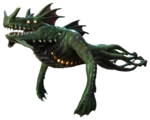
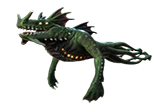
fixed images and added general css for world

Changed region(s): [[0.0, 0.0, 0.9867, 0.9818]]

diff --git a/pages/world/fauna.html b/pages/world/fauna.html
@@ -8,6 +8,7 @@
     <title>Subnepedia | Fauna</title>
     <link rel="stylesheet" href="/css/main.css">
     <link rel="stylesheet" href="/css/css-pages/world/fauna.css">
+    <link rel="stylesheet" href="/css/css-pages/world/world.css">
     <!-- Icons -->
     <script src="https://kit.fontawesome.com/1d56e9de16.js" crossorigin="anonymous"></script>
     <!-- Icon -->
@@ -98,23 +99,36 @@
         <div class="container">
             <div class="list mb-3">
                 <div class="list-1">
-                    <div class="item"><a href=""><img src="/images/World-Page/Fauna-Page/Carnivores/Ampeel.png" alt="Ampeel" class="img-fluid color-3"></a></div>
-                    <div class="item"><a href=""><img src="/images/World-Page/Fauna-Page/Carnivores/Biter.png" alt="Biter" class="img-fluid color-3"></a></div>
-                    <div class="item"><a href=""><img src="/images/World-Page/Fauna-Page/Carnivores/Blighter.png" alt="Blighter" class="img-fluid color-3"></a></div>
+                    <div class="item"><a href=""><img src="/images/World-Page/Fauna-Page/Carnivores/Ampeel.png"
+                                alt="Ampeel" class="img-fluid color-3"></a></div>
+                    <div class="item"><a href=""><img src="/images/World-Page/Fauna-Page/Carnivores/Biter.png"
+                                alt="Biter" class="img-fluid color-3"></a></div>
+                    <div class="item"><a href=""><img src="/images/World-Page/Fauna-Page/Carnivores/Blighter.png"
+                                alt="Blighter" class="img-fluid color-3"></a></div>
                 </div>
                 <div class="list-2">
-                    <div class="item"><a href=""><img src="/images/World-Page/Fauna-Page/Carnivores/Boneshark.png" alt="Boneshark" class="img-fluid color-3"></a></div>
-                    <div class="item"><a href=""><img src="/images/World-Page/Fauna-Page/Carnivores/Crabsnake.png" alt="Crabsnake" class="img-fluid color-3"></a></div>
-                    <div class="item"><a href=""><img src="/images/World-Page/Fauna-Page/Carnivores/Crabsquid.png" alt="Crabsquid" class="img-fluid color-3"></a></div>
-                    <div class="item"><a href=""><img src="/images/World-Page/Fauna-Page/Carnivores/Crashfish.png" alt="Crashfish" class="img-fluid color-3"></a></div>
-                    <div class="item"><a href=""><img src="/images/World-Page/Fauna-Page/Carnivores/Lava-Lizard.png" alt="Lava Lizard" class="img-fluid color-3"></a></div>
+                    <div class="item"><a href=""><img src="/images/World-Page/Fauna-Page/Carnivores/Boneshark.png"
+                                alt="Boneshark" class="img-fluid color-3"></a></div>
+                    <div class="item"><a href=""><img src="/images/World-Page/Fauna-Page/Carnivores/Crabsnake.png"
+                                alt="Crabsnake" class="img-fluid color-3"></a></div>
+                    <div class="item"><a href=""><img src="/images/World-Page/Fauna-Page/Carnivores/Crabsquid.png"
+                                alt="Crabsquid" class="img-fluid color-3"></a></div>
+                    <div class="item"><a href=""><img src="/images/World-Page/Fauna-Page/Carnivores/Crashfish.png"
+                                alt="Crashfish" class="img-fluid color-3"></a></div>
+                    <div class="item"><a href=""><img src="/images/World-Page/Fauna-Page/Carnivores/Lava-Lizard.png"
+                                alt="Lava Lizard" class="img-fluid color-3"></a></div>
                 </div>
                 <div class="list-3">
-                    <div class="item"><a href=""><img src="/images/World-Page/Fauna-Page/Carnivores/Mesmer.png" alt="Mesmer" class="img-fluid color-3"></a></div>
-                    <div class="item"><a href=""><img src="/images/World-Page/Fauna-Page/Carnivores/River-Prowler.png" alt="River Prowler" class="img-fluid color-3"></a></div>
-                    <div class="item"><a href=""><img src="/images/World-Page/Fauna-Page/Carnivores/Sand-Shark.png" alt="Sand Shark" class="img-fluid color-3"></a></div>
-                    <div class="item"><a href=""><img src="/images/World-Page/Fauna-Page/Carnivores/Stalker.png" alt="Stalker" class="img-fluid color-3"></a></div>
-                    <div class="item"><a href=""><img src="/images/World-Page/Fauna-Page/Carnivores/Warper.png" alt="Warper" class="img-fluid color-3"></a></div>
+                    <div class="item"><a href=""><img src="/images/World-Page/Fauna-Page/Carnivores/Mesmer.png"
+                                alt="Mesmer" class="img-fluid color-3"></a></div>
+                    <div class="item"><a href=""><img src="/images/World-Page/Fauna-Page/Carnivores/River-Prowler.png"
+                                alt="River Prowler" class="img-fluid color-3"></a></div>
+                    <div class="item"><a href=""><img src="/images/World-Page/Fauna-Page/Carnivores/Sand-Shark.png"
+                                alt="Sand Shark" class="img-fluid color-3"></a></div>
+                    <div class="item"><a href=""><img src="/images/World-Page/Fauna-Page/Carnivores/Stalker.png"
+                                alt="Stalker" class="img-fluid color-3"></a></div>
+                    <div class="item"><a href=""><img src="/images/World-Page/Fauna-Page/Carnivores/Warper.png"
+                                alt="Warper" class="img-fluid color-3"></a></div>
                 </div>
             </div>
         </div>
@@ -125,67 +139,137 @@
         <div class="container">
             <div class="list my-3">
                 <div class="list-1">
-                    <div class="item"><a href="#"><img class="img-fluid color-3" src="/images/World-Page/Fauna-Page/Herbivores/Bladderfish.png" alt="Bladderfish"></a></div>
-                    <div class="item"><a href="#"><img class="img-fluid color-3" src="/images/World-Page/Fauna-Page/Herbivores/Boomerang.png" alt="Boomerang"></a></div>
-                    <div class="item"><a href="#"><img class="img-fluid color-3" src="/images/World-Page/Fauna-Page/Herbivores/Crimson_Ray.png" alt="Crimson Ray"></a></div>
-                    <div class="item"><a href="#"><img class="img-fluid color-3" src="/images/World-Page/Fauna-Page/Herbivores/Cuddlefish.png" alt="Cuddlefish"></a></div>
-                    <div class="item"><a href="#"><img class="img-fluid color-3" src="/images/World-Page/Fauna-Page/Herbivores/Eyeye.png" alt="Eyeye"></a></div>
-                    <div class="item"><a href="#"><img class="img-fluid color-3" src="/images/World-Page/Fauna-Page/Herbivores/Garryfish.png" alt="Garryfish"></a></div>
-                    <div class="item"><a href="#"><img class="img-fluid color-3" src="/images/World-Page/Fauna-Page/Herbivores/Gasopod.png" alt="Gasopod"></a></div>
+                    <div class="item"><a href="#"><img class="img-fluid color-3"
+                                src="/images/World-Page/Fauna-Page/Herbivores/Bladderfish.png" alt="Bladderfish"></a>
+                    </div>
+                    <div class="item"><a href="#"><img class="img-fluid color-3"
+                                src="/images/World-Page/Fauna-Page/Herbivores/Boomerang.png" alt="Boomerang"></a></div>
+                    <div class="item"><a href="#"><img class="img-fluid color-3"
+                                src="/images/World-Page/Fauna-Page/Herbivores/Crimson_Ray.png" alt="Crimson Ray"></a>
+                    </div>
+                    <div class="item"><a href="#"><img class="img-fluid color-3"
+                                src="/images/World-Page/Fauna-Page/Herbivores/Cuddlefish.png" alt="Cuddlefish"></a>
+                    </div>
+                    <div class="item"><a href="#"><img class="img-fluid color-3"
+                                src="/images/World-Page/Fauna-Page/Herbivores/Eyeye.png" alt="Eyeye"></a></div>
+                    <div class="item"><a href="#"><img class="img-fluid color-3"
+                                src="/images/World-Page/Fauna-Page/Herbivores/Garryfish.png" alt="Garryfish"></a></div>
+                    <div class="item"><a href="#"><img class="img-fluid color-3"
+                                src="/images/World-Page/Fauna-Page/Herbivores/Gasopod.png" alt="Gasopod"></a></div>
                 </div>
-                 <div class="list-2">
-                    <div class="item"><a href="#"><img class="img-fluid color-3" src="/images/World-Page/Fauna-Page/Herbivores/Ghostray.png" alt="Ghostray"></a></div>
-                    <div class="item"><a href="#"><img class="img-fluid color-3" src="/images/World-Page/Fauna-Page/Herbivores/Holefish.png" alt="Holefish"></a></div>
-                    <div class="item"><a href="#"><img class="img-fluid color-3" src="/images/World-Page/Fauna-Page/Herbivores/Hoopfish.png" alt="Hoopfish"></a></div>
-                    <div class="item"><a href="#"><img class="img-fluid color-3" src="/images/World-Page/Fauna-Page/Herbivores/Hoverfish.png" alt="Hoverfish"></a></div>
-                    <div class="item"><a href="#"><img class="img-fluid color-3" src="/images/World-Page/Fauna-Page/Herbivores/Jellyray.png" alt="Jellyray"></a></div>
-                    <div class="item"><a href="#"><img class="img-fluid color-3" src="/images/World-Page/Fauna-Page/Herbivores/Magmarang.png" alt="Magmarang"></a></div>
-                    <div class="item"><a href="#"><img class="img-fluid color-3" src="/images/World-Page/Fauna-Page/Herbivores/Oculus.png" alt="Oculus"></a></div>
+                <div class="list-2">
+                    <div class="item"><a href="#"><img class="img-fluid color-3"
+                                src="/images/World-Page/Fauna-Page/Herbivores/Ghostray.png" alt="Ghostray"></a></div>
+                    <div class="item"><a href="#"><img class="img-fluid color-3"
+                                src="/images/World-Page/Fauna-Page/Herbivores/Holefish.png" alt="Holefish"></a></div>
+                    <div class="item"><a href="#"><img class="img-fluid color-3"
+                                src="/images/World-Page/Fauna-Page/Herbivores/Hoopfish.png" alt="Hoopfish"></a></div>
+                    <div class="item"><a href="#"><img class="img-fluid color-3"
+                                src="/images/World-Page/Fauna-Page/Herbivores/Hoverfish.png" alt="Hoverfish"></a></div>
+                    <div class="item"><a href="#"><img class="img-fluid color-3"
+                                src="/images/World-Page/Fauna-Page/Herbivores/Jellyray.png" alt="Jellyray"></a></div>
+                    <div class="item"><a href="#"><img class="img-fluid color-3"
+                                src="/images/World-Page/Fauna-Page/Herbivores/Magmarang.png" alt="Magmarang"></a></div>
+                    <div class="item"><a href="#"><img class="img-fluid color-3"
+                                src="/images/World-Page/Fauna-Page/Herbivores/Oculus.png" alt="Oculus"></a></div>
                 </div>
-                 <div class="list-3">
-                    <div class="item"><a href="#"><img class="img-fluid color-3" src="/images/World-Page/Fauna-Page/Herbivores/Peeper.png" alt="Peeper"></a></div>
-                    <div class="item"><a href="#"><img class="img-fluid color-3" src="/images/World-Page/Fauna-Page/Herbivores/Rabbit-Ray.png" alt="Rabbit-Ray"></a></div>
-                    <div class="item"><a href="#"><img class="img-fluid color-3" src="/images/World-Page/Fauna-Page/Herbivores/Red-Eyeye.png" alt="Red-Eyeye"></a></div>
-                    <div class="item"><a href="#"><img class="img-fluid color-3" src="/images/World-Page/Fauna-Page/Herbivores/Reginald.png" alt="Reginald"></a></div>
-                    <div class="item"><a href="#"><img class="img-fluid color-3" src="/images/World-Page/Fauna-Page/Herbivores/Skyray.png" alt="Skyray"></a></div>
-                    <div class="item"><a href="#"><img class="img-fluid color-3" src="/images/World-Page/Fauna-Page/Herbivores/Spadefish.png" alt="Spadefish"></a></div>
-                    <div class="item"><a href="#"><img class="img-fluid color-3" src="/images/World-Page/Fauna-Page/Herbivores/Spinefish.png" alt="Spinefish"></a></div>
+                <div class="list-3">
+                    <div class="item"><a href="#"><img class="img-fluid color-3"
+                                src="/images/World-Page/Fauna-Page/Herbivores/Peeper.png" alt="Peeper"></a></div>
+                    <div class="item"><a href="#"><img class="img-fluid color-3"
+                                src="/images/World-Page/Fauna-Page/Herbivores/Rabbit-Ray.png" alt="Rabbit-Ray"></a>
+                    </div>
+                    <div class="item"><a href="#"><img class="img-fluid color-3"
+                                src="/images/World-Page/Fauna-Page/Herbivores/Red-Eyeye.png" alt="Red-Eyeye"></a></div>
+                    <div class="item"><a href="#"><img class="img-fluid color-3"
+                                src="/images/World-Page/Fauna-Page/Herbivores/Reginald.png" alt="Reginald"></a></div>
+                    <div class="item"><a href="#"><img class="img-fluid color-3"
+                                src="/images/World-Page/Fauna-Page/Herbivores/Skyray.png" alt="Skyray"></a></div>
+                    <div class="item"><a href="#"><img class="img-fluid color-3"
+                                src="/images/World-Page/Fauna-Page/Herbivores/Spadefish.png" alt="Spadefish"></a></div>
+                    <div class="item"><a href="#"><img class="img-fluid color-3"
+                                src="/images/World-Page/Fauna-Page/Herbivores/Spinefish.png" alt="Spinefish"></a></div>
                 </div>
             </div>
         </div>
-         <div class="hr-divider">
+        <div class="hr-divider">
             <hr class="divider">
         </div>
         <h1 class="custom-font page-title my-5">Scavengers &amp; Parasites</h1>
         <div class="container">
             <div class="list my-3">
                 <div class="list-1">
-                    <div class="item"><a href="#"><img class="img-fluid color-3" src="/images/World-Page/Fauna-Page/Scavengers & Parasites/Amoeboid.png" alt="Amoeboid"></a></div>
-                    <div class="item"><a href="#"><img class="img-fluid color-3" src="/images/World-Page/Fauna-Page/Scavengers & Parasites/Ancient-Floater.png" alt="Ancient Floater"></a></div>
-                    <div class="item"><a href="#"><img class="img-fluid color-3" src="/images/World-Page/Fauna-Page/Scavengers & Parasites/Bleeder.png" alt="Bleeder"></a></div>
+                    <div class="item"><a href="#"><img class="img-fluid color-3"
+                                src="/images/World-Page/Fauna-Page/Scavengers & Parasites/Amoeboid.png"
+                                alt="Amoeboid"></a></div>
+                    <div class="item"><a href="#"><img class="img-fluid color-3"
+                                src="/images/World-Page/Fauna-Page/Scavengers & Parasites/Ancient-Floater.png"
+                                alt="Ancient Floater"></a></div>
+                    <div class="item"><a href="#"><img class="img-fluid color-3"
+                                src="/images/World-Page/Fauna-Page/Scavengers & Parasites/Bleeder.png"
+                                alt="Bleeder"></a></div>
                 </div>
-                 <div class="list-2">
-                    <div class="item"><a href="#"><img class="img-fluid color-3" src="/images/World-Page/Fauna-Page/Scavengers & Parasites/Blood-Crawler.png" alt="Blood Crawler"></a></div>
-                    <div class="item"><a href="#"><img class="img-fluid color-3" src="/images/World-Page/Fauna-Page/Scavengers & Parasites/Cave-Crawler.png" alt="Cave Crawler"></a></div>
-                    <div class="item"><a href="#"><img class="img-fluid color-3" src="/images/World-Page/Fauna-Page/Scavengers & Parasites/Floater.png" alt="Floater"></a></div>
+                <div class="list-2">
+                    <div class="item"><a href="#"><img class="img-fluid color-3"
+                                src="/images/World-Page/Fauna-Page/Scavengers & Parasites/Blood-Crawler.png"
+                                alt="Blood Crawler"></a></div>
+                    <div class="item"><a href="#"><img class="img-fluid color-3"
+                                src="/images/World-Page/Fauna-Page/Scavengers & Parasites/Cave-Crawler.png"
+                                alt="Cave Crawler"></a></div>
+                    <div class="item"><a href="#"><img class="img-fluid color-3"
+                                src="/images/World-Page/Fauna-Page/Scavengers & Parasites/Floater.png"
+                                alt="Floater"></a></div>
                 </div>
-                 <div class="list-3">
-                    <div class="item"><a href="#"><img class="img-fluid color-3" src="/images/World-Page/Fauna-Page/Scavengers & Parasites/Lava-Larva.png" alt="Lava Larva"></a></div>
-                    <div class="item"><a href="#"><img class="img-fluid color-3" src="/images/World-Page/Fauna-Page/Scavengers & Parasites/Rockgrub.png" alt="Rockgrub"></a></div>
-                    <div class="item"><a href="#"><img class="img-fluid color-3" src="/images/World-Page/Fauna-Page/Scavengers & Parasites/Shuttlebug.png" alt="Shuttlebug"></a></div>
+                <div class="list-3">
+                    <div class="item"><a href="#"><img class="img-fluid color-3"
+                                src="/images/World-Page/Fauna-Page/Scavengers & Parasites/Lava-Larva.png"
+                                alt="Lava Larva"></a></div>
+                    <div class="item"><a href="#"><img class="img-fluid color-3"
+                                src="/images/World-Page/Fauna-Page/Scavengers & Parasites/Rockgrub.png"
+                                alt="Rockgrub"></a></div>
+                    <div class="item"><a href="#"><img class="img-fluid color-3"
+                                src="/images/World-Page/Fauna-Page/Scavengers & Parasites/Shuttlebug.png"
+                                alt="Shuttlebug"></a></div>
                 </div>
             </div>
         </div>
-         <div class="hr-divider">
+        <div class="hr-divider">
             <hr class="divider">
         </div>
-         <h1 class="custom-font page-title my-5">Harvestable</h1>
+        <h1 class="custom-font page-title my-5">Harvestable</h1>
         <div class="container">
             <div class="list my-3">
                 <div class="list-1">
-                    <div class="item"><a href="#"><img class="img-fluid color-3" src="/images/World-Page/Fauna-Page/Leviathan Class/Ghost-Juvenile.png" alt="Ghost-Juvenile Leviathn"></a></div>
-                    <div class="item"><a href="#"><img class="img-fluid color-3" src="/images/World-Page/Fauna-Page/Leviathan Class/Ghost.png" alt="Ghost Levithan"></a></div>
-                    <div class="item"><a href="#"><img class="img-fluid color-3" src="/images/World-Page/Fauna-Page/Leviathan Class/Ghost-Juvenile.png" alt="Ghost-Juvenile"></a></div>
+                    <div class="item"><a href="#"><img class="img-fluid color-3"
+                                src="/images/World-Page/Fauna-Page/Harvestable/Brain-Coral.png" alt="Brain Coral"></a>
+                    </div>
+                    <div class="item"><a href="#"><img class="img-fluid color-3"
+                                src="/images/World-Page/Fauna-Page/Harvestable/Coral-Shell-Plate.png"
+                                alt="Coral Shell Plate"></a></div>
+                    <div class="item"><a href="#"><img class="img-fluid color-3"
+                                src="/images/World-Page/Fauna-Page/Harvestable/Earthen-Coral-Tubes.png"
+                                alt="Earthen Coral Tubes"></a></div>
+                </div>
+                <div class="list-2">
+                    <div class="item"><a href="#"><img class="img-fluid color-3"
+                                src="/images/World-Page/Fauna-Page/Harvestable/Giant-Coral-Tubes.png"
+                                alt="Giant Coral Tubes"></a></div>
+                    <div class="item"><a href="#"><img class="img-fluid color-3"
+                                src="/images/World-Page/Fauna-Page/Harvestable/Pyrocoral.png" alt="Pyrocoal"></a></div>
+                    <div class="item"><a href="#"><img class="img-fluid color-3"
+                                src="/images/World-Page/Fauna-Page/Harvestable/Slanted-Shell-Plate.png"
+                                alt="Slanted Shell Plate"></a></div>
+                </div>
+                <div class="list-3">
+                    <div class="item"><a href="#"><img class="img-fluid color-3"
+                                src="/images/World-Page/Fauna-Page/Harvestable/Table-Coral.png" alt="Table Coral"></a>
+                    </div>
+                    <div class="item"><a href="#"><img class="img-fluid color-3"
+                                src="/images/World-Page/Fauna-Page/Harvestable/Tree-Mushroom.png"
+                                alt="Tree Mushroom"></a></div>
+                    <div class="item"><a href="#"><img class="img-fluid color-3"
+                                src="/images/World-Page/Fauna-Page/Harvestable/Veined-Shell-Plate.png"
+                                alt="Veined Shell Plate"></a></div>
                 </div>
             </div>
         </div>
@@ -193,9 +277,37 @@
         <div class="container">
             <div class="list my-3">
                 <div class="list-1">
-                    <div class="item"><a href="#"><img class="img-fluid color-3" src="/images/World-Page/Fauna-Page/Leviathan Class/Ghost-Juvenile.png" alt="Ghost-Juvenile Leviathn"></a></div>
-                    <div class="item"><a href="#"><img class="img-fluid color-3" src="/images/World-Page/Fauna-Page/Leviathan Class/Ghost.png" alt="Ghost Levithan"></a></div>
-                    <div class="item"><a href="#"><img class="img-fluid color-3" src="/images/World-Page/Fauna-Page/Leviathan Class/Ghost-Juvenile.png" alt="Ghost-Juvenile"></a></div>
+                    <div class="item"><a href="#"><img class="img-fluid color-3"
+                                src="/images/World-Page/Fauna-Page/Leviathan Class/Adult-Ghost.png"
+                                alt="Ghost Leviathan"></a></div>
+                    <div class="item"><a href="#"><img class="img-fluid color-3"
+                                src="/images/World-Page/Fauna-Page/Leviathan Class/Juvenile-Ghost.png"
+                                alt="Juvenile Ghost Levithan"></a></div>
+                    <div class="item"><a href="#"><img class="img-fluid color-3"
+                                src="/images/World-Page/Fauna-Page/Leviathan Class/Reaper.png"
+                                alt="Reaper Leviathan"></a></div>
+                </div>
+                <div class="list-2">
+                    <div class="item"><a href="#"><img class="img-fluid color-3"
+                                src="/images/World-Page/Fauna-Page/Leviathan Class/Reefback.png"
+                                alt="Reefback Leviathan"></a></div>
+                    <div class="item"><a href="#"><img class="img-fluid color-3"
+                                src="/images/World-Page/Fauna-Page/Leviathan Class/Sea-Dragon.png" alt="Sea Dragon"></a>
+                    </div>
+                    <div class="item"><a href="#"><img class="img-fluid color-3"
+                                src="/images/World-Page/Fauna-Page/Leviathan Class/Sea-Emperor.png"
+                                alt="Sea Emperor"></a></div>
+                </div>
+                <div class="list-2">
+                    <div class="item"><a href="#"><img class="img-fluid color-3"
+                                src="/images/World-Page/Fauna-Page/Leviathan Class/Sea-Emperor-Baby.png"
+                                alt="Baby Sea Emperor"></a></div>
+                    <div class="item"><a href="#"><img class="img-fluid color-3"
+                                src="/images/World-Page/Fauna-Page/Leviathan Class/Sea-Emperor-Juvenile.png"
+                                alt="Juvenile Sea Emperor"></a></div>
+                    <div class="item"><a href="#"><img class="img-fluid color-3"
+                                src="/images/World-Page/Fauna-Page/Leviathan Class/Sea-Trader.png"
+                                alt="Sea Trader"></a></div>
                 </div>
             </div>
         </div>

diff --git a/pages/world/flora.html b/pages/world/flora.html
@@ -8,6 +8,7 @@
     <title>Flora | Subnepedia</title>
     <link rel="stylesheet" href="/css/main.css">
     <link rel="stylesheet" href="/css/css-pages/world/flora.css">
+     <link rel="stylesheet" href="/css/css-pages/world/world.css">
     <!-- Icons -->
     <script src="https://kit.fontawesome.com/1d56e9de16.js" crossorigin="anonymous"></script>
     <!-- Icon -->

diff --git a/css/css-pages/world/fauna.css b/css/css-pages/world/fauna.css
@@ -22,16 +22,5 @@
     justify-content: center;
     align-items: center;
     flex-direction: column;
-    gap: 50px;
-}
-.item img {
-    border-radius: 50%;
-    border: 2px solid #5D5FEF;
-
-}
-.list div {
-    display: flex;
-    justify-content: center;
-    align-items: center;
-    gap: 40px;
+    gap: 80px;
 }

diff --git a/css/css-pages/world/flora.css b/css/css-pages/world/flora.css
@@ -24,14 +24,3 @@
     flex-direction: column;
     gap: 80px;
 }
-.list div {
-    display: flex;
-    justify-content: center;
-    align-items: center;
-    gap: 40px;
-}
-.item img {
-    border-radius: 50%;
-    border: 2px solid #5D5FEF;
-
-}

diff --git a/css/main.css b/css/main.css
@@ -203,8 +203,8 @@ ul {
 .hr-divider{
     display: flex;
     justify-content: center;
-    padding: 50px 125px;
-    margin: 3rem 0;
+    /* padding: 50px 125px; */
+    margin: 3rem 3rem;
 }
 .divider{
     border-top: 3px solid #6BE9E6;

diff --git a/css/css-pages/world/world.css b/css/css-pages/world/world.css
@@ -1,0 +1,12 @@
+/* image */
+.item img {
+    object-fit: cover;
+    border-radius: 50%;
+    border: 2px solid #5D5FEF;
+}
+.list div {
+    display: flex;
+    justify-content: center;
+    align-items: center;
+    gap: 40px;
+}
